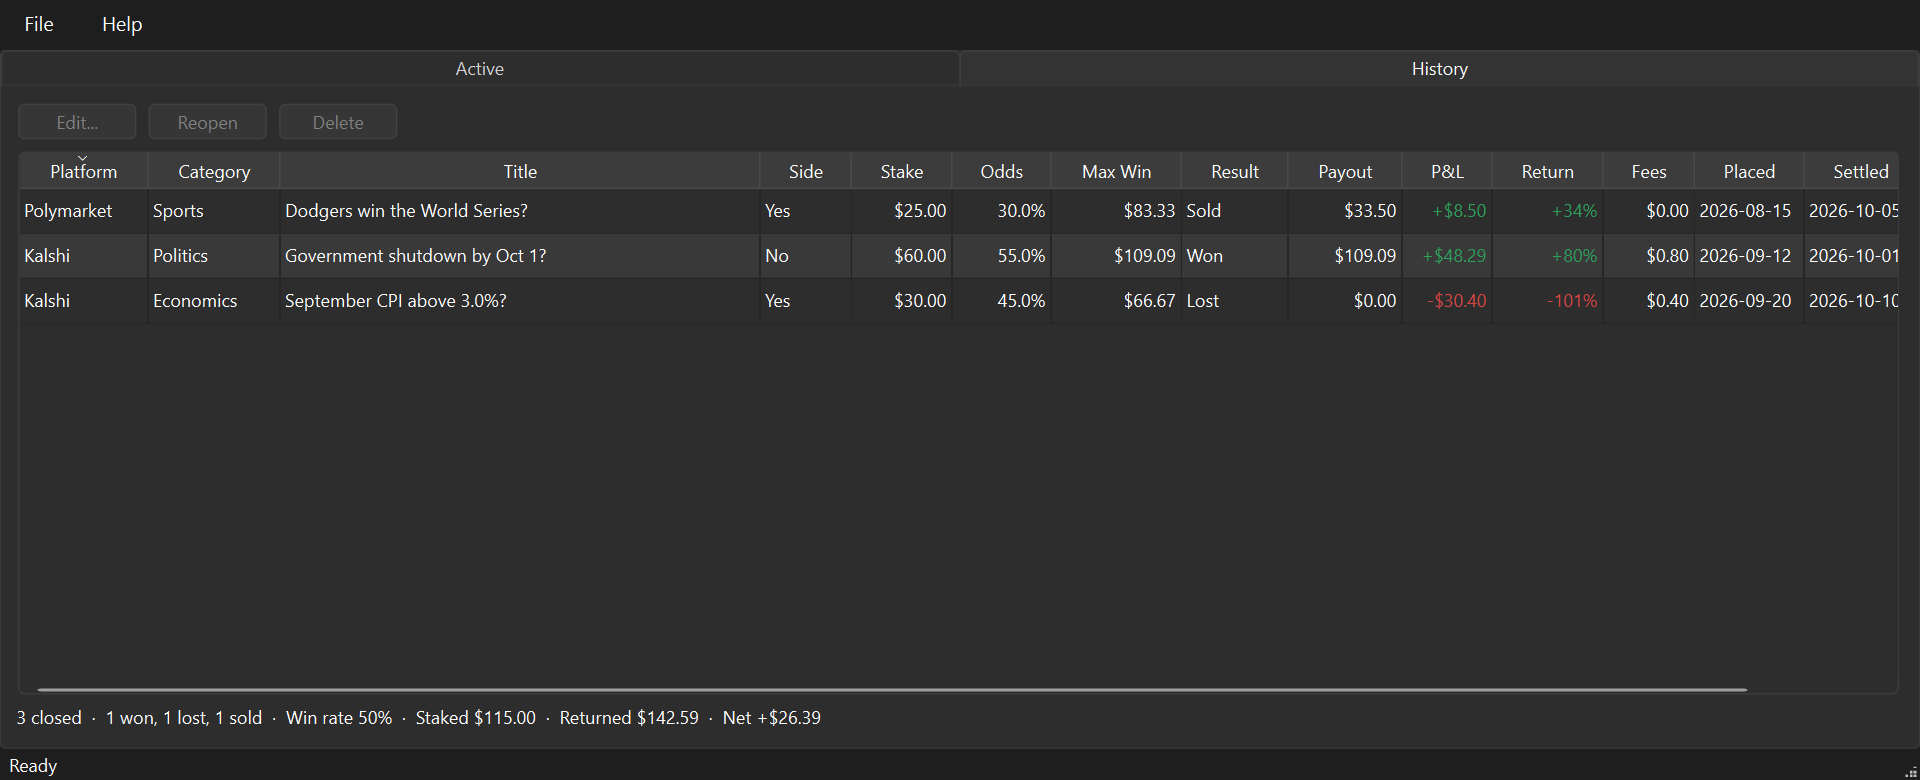
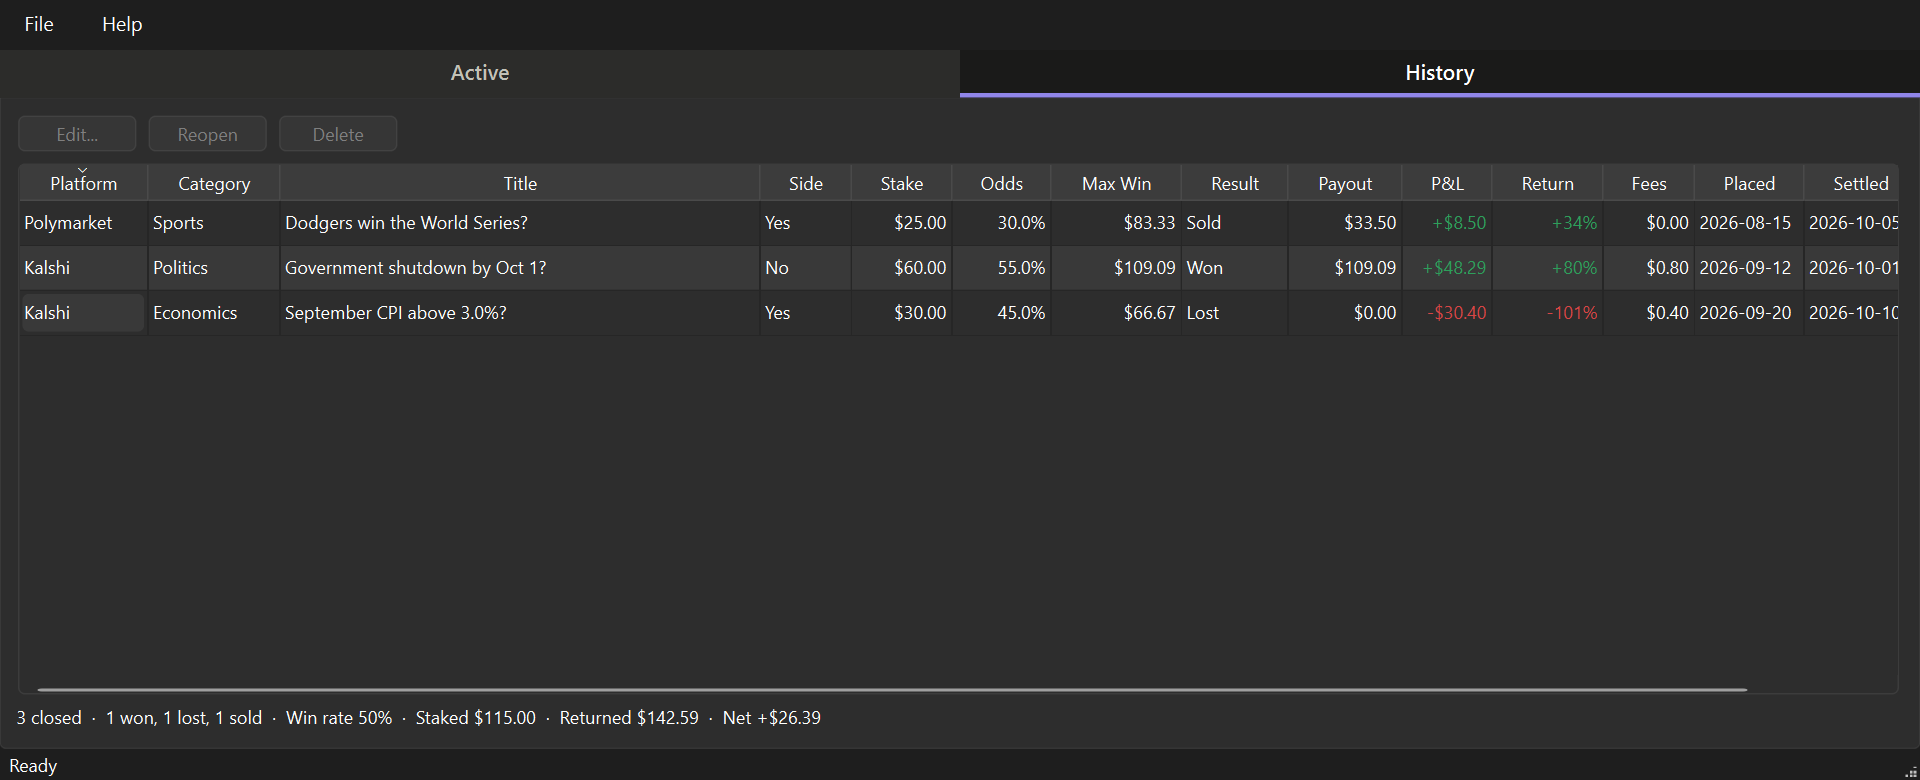
Remember the window's place and size; make the main tabs stand out
The main window saves Qt's geometry blob to settings.ini on close and
restores it at start, as 26theOneAssets does; Qt fits it to the screens
that exist, so a window last used on a missing monitor comes back on one.

The Active / History tabs get larger DemiBold labels, a grey strip for the
closed tab, and the window surface with an accent underline for the open
one, in the same light and dark colours as 26theOneAssets (ui/tabTheme.py).

That styling hit a Qt 6.12 quirk, reproduced in plain Qt: a nested tab
widget whose tab bar has a style sheet stops taking palette changes, so
Help > Theme > Light left the tables dark in a light window. The tab widget
now restyles one event later and resets to an inherited palette first. A
regression test drives Dark/Light switches on the real platform (it skips
offscreen) and was checked to fail without the fix.

Also ignore the imports/ folder, where personal wager CSVs are dropped for
File > Import, and refresh the manual's screenshots.

diff --git a/tests/testUi/testFullWidthTabWidget.py b/tests/testUi/testFullWidthTabWidget.py
@@ -2,8 +2,13 @@
 
 from __future__ import annotations
 
-from PySide6.QtWidgets import QWidget
+import pytest
+from PySide6.QtCore import Qt
+from PySide6.QtGui import QFont, QStandardItemModel
+from PySide6.QtWidgets import QTableView, QVBoxLayout, QWidget
 
+from wagerBook.ui import tabTheme
+from wagerBook.ui.widgets import fullWidthTabWidget
 from wagerBook.ui.widgets.fullWidthTabWidget import FullWidthTabWidget
 
 
@@ -38,6 +43,95 @@ def testTabsKeepEqualShareAfterResize(qtbot) -> None:
     tabWidget.resize(840, 400)
 
     qtbot.waitUntil(lambda: tabsFillHalves(tabWidget), timeout=5000)
+
+
+def testTheLabelsStandOutFromTheRestOfTheInterface(qtbot) -> None:
+    tabWidget = FullWidthTabWidget()
+    qtbot.addWidget(tabWidget)
+    tabWidget.addTab(QWidget(), "Active")
+
+    font = tabWidget.tabBar().font()
+    assert font.bold()
+    assert font.pointSizeF() > QFont().pointSizeF()
+    accent = tabTheme.currentTokens().accent
+    style = tabWidget.tabBar().styleSheet()
+    assert "QTabBar::tab:selected" in style
+    assert f"border-bottom: {fullWidthTabWidget.underline}px solid {accent}" in style
+
+
+def testTheTabsFollowTheTheme(qtbot, monkeypatch) -> None:
+    tabWidget = FullWidthTabWidget()
+    qtbot.addWidget(tabWidget)
+    monkeypatch.setattr(fullWidthTabWidget, "currentTokens", lambda: tabTheme.darkTokens)
+
+    tabWidget.applyTheme()
+
+    style = tabWidget.tabBar().styleSheet()
+    assert tabTheme.darkTokens.surface in style
+    assert tabTheme.darkTokens.accent in style
+
+
+def testAThemeChangeRestylesTheTabs(qtbot, qapp, observableColorScheme) -> None:
+    """Help > Theme reaches the tabs through Qt's colour-scheme signal."""
+    if not observableColorScheme:
+        pytest.skip("this platform plugin does not report a forced colour scheme")
+    tabWidget = FullWidthTabWidget()
+    qtbot.addWidget(tabWidget)
+
+    qapp.styleHints().setColorScheme(Qt.ColorScheme.Dark)
+    qtbot.waitUntil(
+        lambda: tabTheme.darkTokens.surface in tabWidget.tabBar().styleSheet(), timeout=5000
+    )
+
+
+def nestedTabsWithTable() -> tuple[QWidget, FullWidthTabWidget, QTableView]:
+    parent = QWidget()
+    layout = QVBoxLayout(parent)
+    tabWidget = FullWidthTabWidget()
+    table = QTableView()
+    table.setModel(QStandardItemModel(2, 2))
+    tabWidget.addTab(table, "Active")
+    layout.addWidget(tabWidget)
+    return parent, tabWidget, table
+
+
+def testAThemeSwitchReachesTheTablesUnderTheTabs(qtbot, qapp, observableColorScheme) -> None:
+    """The regression: with the tab bar styled, Qt stopped handing palette changes
+    to a nested tab widget, and Help > Theme > Light left the tables dark in a
+    light window. Only a real scheme change shows it, so this skips on the
+    offscreen plugin and runs under a plain `pytest` on Windows."""
+    if not observableColorScheme:
+        pytest.skip("this platform plugin does not report a forced colour scheme")
+    hints = qapp.styleHints()
+    hints.setColorScheme(Qt.ColorScheme.Dark)
+    parent, _tabWidget, table = nestedTabsWithTable()
+    qtbot.addWidget(parent)
+    parent.show()
+    qtbot.wait(200)
+
+    for scheme in (Qt.ColorScheme.Light, Qt.ColorScheme.Dark, Qt.ColorScheme.Light):
+        hints.setColorScheme(scheme)
+        qtbot.waitUntil(
+            lambda: table.palette().base().color() == qapp.palette().base().color(),
+            timeout=3000,
+        )
+
+
+def testRestylingLeavesNoFixedPaletteBehind(qtbot) -> None:
+    """A fixed palette would stop the next theme switch reaching the tables."""
+    parent, tabWidget, _table = nestedTabsWithTable()
+    qtbot.addWidget(parent)
+
+    tabWidget.applyTheme()
+
+    assert not tabWidget.testAttribute(Qt.WidgetAttribute.WA_SetPalette)
+
+
+def testEachThemeHasItsOwnColours() -> None:
+    assert tabTheme.lightTokens != tabTheme.darkTokens
+    for tokens in (tabTheme.lightTokens, tabTheme.darkTokens):
+        assert tokens.accent not in (tokens.surface, tokens.strip)
+        assert tokens.primaryInk != tokens.secondaryInk
 
 
 def testThreeTabsShareThirds(qtbot) -> None:

diff --git a/src/wagerBook/ui/widgets/fullWidthTabWidget.py b/src/wagerBook/ui/widgets/fullWidthTabWidget.py
@@ -1,10 +1,20 @@
-"""Tab widget whose tabs share the full width equally, labels centered."""
+"""Tab widget whose tabs share the full width equally, labels centered.
+
+These are the app's top-level switch, so their labels are larger and bolder
+than the rest of the interface and the open one is marked in the accent
+colour - not left to a hairline that reads as part of the background.
+"""
 
 from __future__ import annotations
 
-from PySide6.QtCore import QSize
-from PySide6.QtGui import QResizeEvent
+from PySide6.QtCore import QSize, QTimer
+from PySide6.QtGui import QFont, QPalette, QResizeEvent
 from PySide6.QtWidgets import QTabBar, QTabWidget, QWidget
+
+from wagerBook.ui.tabTheme import currentTokens, onColorSchemeChanged
+
+labelScale = 1.15  # of the interface's own text size
+underline = 3  # px under the open tab
 
 
 class FullWidthTabBar(QTabBar):
@@ -20,6 +30,47 @@ class FullWidthTabWidget(QTabWidget):
     def __init__(self, parent: QWidget | None = None) -> None:
         super().__init__(parent)
         self.setTabBar(FullWidthTabBar(self))
+        font = QFont()
+        font.setPointSizeF(font.pointSizeF() * labelScale)
+        font.setWeight(QFont.Weight.DemiBold)
+        self.tabBar().setFont(font)
+        self.applyTheme()
+        onColorSchemeChanged(self.scheduleTheme)
+
+    def scheduleTheme(self, *_args: object) -> None:
+        """Restyle once Qt has finished switching the theme, not while it is.
+
+        The scheme signal arrives before Qt has handed the new palette round
+        the window, so the work waits one turn of the event loop.
+        """
+        QTimer.singleShot(0, self, self.applyTheme)
+
+    def applyTheme(self, *_args: object) -> None:
+        """The open tab in ink on the surface, underlined in the accent; the rest quiet."""
+        # A Qt quirk, seen in Qt 6.12 with no app code involved: a tab widget
+        # inside another widget stops taking palette changes once its tab bar
+        # has a style sheet, so after Help > Theme > Light the tables under it
+        # stayed dark in an otherwise light window. An empty palette tells it
+        # to inherit from its parent again; it fixes nothing in place, so the
+        # next switch is inherited the same way.
+        self.setPalette(QPalette())
+        tokens = currentTokens()
+        self.tabBar().setStyleSheet(
+            "QTabBar::tab {"
+            f"color: {tokens.secondaryInk};"
+            f"background: {tokens.strip};"
+            f"border: none; border-bottom: {underline}px solid {tokens.strip};"
+            "padding: 5px 10px;"
+            "}"
+            "QTabBar::tab:hover {"
+            f"color: {tokens.primaryInk};"
+            "}"
+            "QTabBar::tab:selected {"
+            f"color: {tokens.primaryInk};"
+            f"background: {tokens.surface};"
+            f"border-bottom: {underline}px solid {tokens.accent};"
+            "}"
+        )
 
     def resizeEvent(self, event: QResizeEvent) -> None:
         # Tab widths derive from the widget width, so a resize must make the

diff --git a/tests/testUi/testMainWindow.py b/tests/testUi/testMainWindow.py
@@ -9,7 +9,7 @@ from PySide6.QtGui import QKeySequence
 
 from wagerBook import appConfig
 from wagerBook.models.wager import Status, Wager
-from wagerBook.services import themeService
+from wagerBook.services import themeService, windowStateService
 from wagerBook.services.importService import ImportResult
 from wagerBook.ui.mainWindow import MainWindow
 
@@ -228,6 +228,38 @@ def testACorruptBookIsReportedNotFatal(qtbot, monkeypatch) -> None:
     assert shown and shown[0][0] == "Wager Book"
     assert str(appConfig.wagersFile) in shown[0][1]
     assert mainWindow.store.wagers == []
+
+
+def testTheWindowSavesItsGeometryOnCloseAndRestoresItNextTime(qtbot, monkeypatch) -> None:
+    """Placing it is Qt's job - restoreGeometry fits it to the screens there are, and
+    the offscreen test screen is smaller than the window - so this checks the hand-off."""
+    first = MainWindow()
+    qtbot.addWidget(first)
+    first.show()
+    first.close()
+    saved = windowStateService.loadGeometry()
+    assert saved is not None and not saved.isEmpty()
+    restored: list = []
+    monkeypatch.setattr(MainWindow, "restoreGeometry",
+                        lambda self, state: restored.append(state) or True)
+
+    second = MainWindow()
+    qtbot.addWidget(second)
+
+    assert restored == [saved]
+
+
+def testTheFirstRunUsesTheDefaultSize(qtbot, monkeypatch) -> None:
+    """No saved geometry yet, so nothing to restore and the configured size stands."""
+    assert windowStateService.loadGeometry() is None
+    restored: list = []
+    monkeypatch.setattr(MainWindow, "restoreGeometry",
+                        lambda self, state: restored.append(state) or True)
+
+    mainWindow = MainWindow()
+    qtbot.addWidget(mainWindow)
+
+    assert restored == []
 
 
 def testAboutOpensTheDialogAndReportsADonation(qtbot, monkeypatch) -> None:

diff --git a/src/wagerBook/ui/tabTheme.py b/src/wagerBook/ui/tabTheme.py
@@ -1,0 +1,48 @@
+"""The colours the main tabs are drawn in, for the light and the dark theme.
+
+The same values as the Charette AI Group's other apps (26theOneAssets), so the
+tabs look alike across them: quiet ink on a grey strip for the closed tabs,
+full ink on the window surface with an accent underline for the open one.
+"""
+
+from __future__ import annotations
+
+from collections.abc import Callable
+from dataclasses import dataclass
+
+from PySide6.QtCore import Qt
+from PySide6.QtGui import QGuiApplication
+
+
+@dataclass(frozen=True)
+class TabTokens:
+    surface: str
+    """Behind the open tab: the window's own background."""
+    primaryInk: str
+    """The open tab's label, and any tab under the pointer."""
+    secondaryInk: str
+    """The other tabs' labels."""
+    strip: str
+    """Behind the closed tabs."""
+    accent: str
+    """The line under the open tab."""
+
+
+lightTokens = TabTokens(
+    surface="#fcfcfb", primaryInk="#0b0b0b", secondaryInk="#52514e",
+    strip="#e1e0d9", accent="#4a3aa7",
+)
+darkTokens = TabTokens(
+    surface="#1a1a19", primaryInk="#ffffff", secondaryInk="#c3c2b7",
+    strip="#2c2c2a", accent="#9085e9",
+)
+
+
+def currentTokens() -> TabTokens:
+    dark = QGuiApplication.styleHints().colorScheme() == Qt.ColorScheme.Dark
+    return darkTokens if dark else lightTokens
+
+
+def onColorSchemeChanged(slot: Callable[..., None]) -> None:
+    """Help > Theme and the Windows setting both arrive through this signal."""
+    QGuiApplication.styleHints().colorSchemeChanged.connect(slot)

diff --git a/src/wagerBook/ui/mainWindow.py b/src/wagerBook/ui/mainWindow.py
@@ -20,7 +20,7 @@ from PySide6.QtWidgets import (
 )
 
 from wagerBook import appConfig
-from wagerBook.services import themeService
+from wagerBook.services import themeService, windowStateService
 from wagerBook.services.exportCsvService import exportCsv
 from wagerBook.services.importService import ImportFileError, ImportResult, readImportFile
 from wagerBook.services.manualWorker import ManualWorker
@@ -36,7 +36,11 @@ class MainWindow(QMainWindow):
     def __init__(self) -> None:
         super().__init__()
         self.setWindowTitle(appConfig.windowTitle)
+        # The first-run size; after that, wherever it was when last closed.
         self.resize(appConfig.defaultWindowWidth, appConfig.defaultWindowHeight)
+        savedGeometry = windowStateService.loadGeometry()
+        if savedGeometry is not None:
+            self.restoreGeometry(savedGeometry)
         self.manualWorker: ManualWorker | None = None
 
         self.buildMenuBar()
@@ -230,6 +234,7 @@ class MainWindow(QMainWindow):
         self.manualAction.setEnabled(True)
 
     def closeEvent(self, event: QCloseEvent) -> None:
+        windowStateService.saveGeometry(self.saveGeometry())
         if self.manualWorker is not None:
             # Short, but a thread running into interpreter shutdown turns a
             # clean exit into a crash.

diff --git a/src/wagerBook/services/windowStateService.py b/src/wagerBook/services/windowStateService.py
@@ -1,0 +1,23 @@
+"""The main window's size and position, restored at the next start.
+
+Kept as Qt's own geometry blob: restoring it checks the saved position
+against the screens that exist now, so a window last used on a monitor that
+is no longer attached comes back on screen instead of somewhere invisible.
+"""
+
+from __future__ import annotations
+
+from PySide6.QtCore import QByteArray
+
+from wagerBook.services import settingsService
+
+geometryKey = "window/geometry"
+
+
+def loadGeometry() -> QByteArray | None:
+    value = settingsService.openSettings().value(geometryKey)
+    return value if isinstance(value, QByteArray) and not value.isEmpty() else None
+
+
+def saveGeometry(state: QByteArray) -> None:
+    settingsService.writeValue(geometryKey, state)

diff --git a/README.md b/README.md
@@ -19,6 +19,8 @@ actually paid. PySide6, one JSON file, nothing sent anywhere.
   own CSV, previews what it will add, skips rows already in the book, and lists rows it
   could not read with the reason
 - Sorting on real values, **File > Export CSV**, light/dark theme, user manual on F1
+- The window reopens where it was last closed, at the same size; the Active / History tabs are
+  large and the open one is underlined in the accent colour, as in the group's other apps
 
 The user manual is in [`docs/manual/README.md`](docs/manual/README.md), with the arithmetic.
 
@@ -58,7 +60,7 @@ ruff check src tests
 
 `%APPDATA%\Wager Book\wagers.json` — every wager, open or closed. Rewritten whole on each
 change through a temporary file, so a crash mid-write leaves the previous book intact.
-`settings.ini` beside it holds the theme choice.
+`settings.ini` beside it holds the theme choice and the window's last position and size.
 
 ## Structure
 

diff --git a/docs/manual/README.md b/docs/manual/README.md
@@ -120,3 +120,8 @@ The book is one JSON file:
 
 Copy it to back it up. If it is ever damaged the app says so at start-up and opens with an
 empty book; move the damaged file aside, or fix it in a text editor, and start again.
+
+`settings.ini` in the same folder remembers the theme from **Help > Theme** and where the window
+was when you last closed it, so it reopens at the same place and size. A window last used on a
+monitor that is no longer attached comes back on a screen you have. Delete `settings.ini` to
+start from the defaults.
